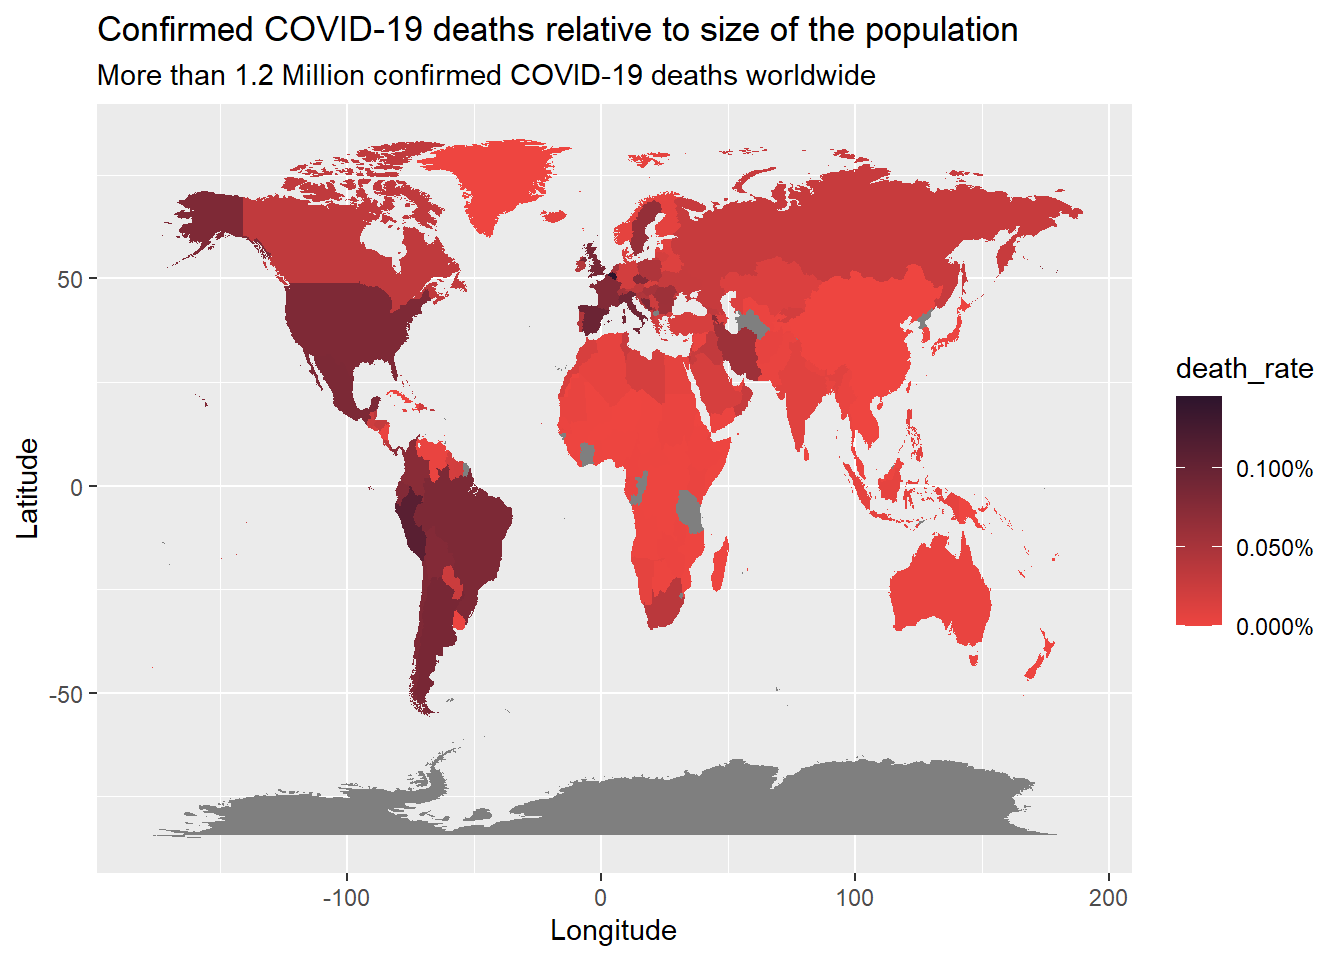
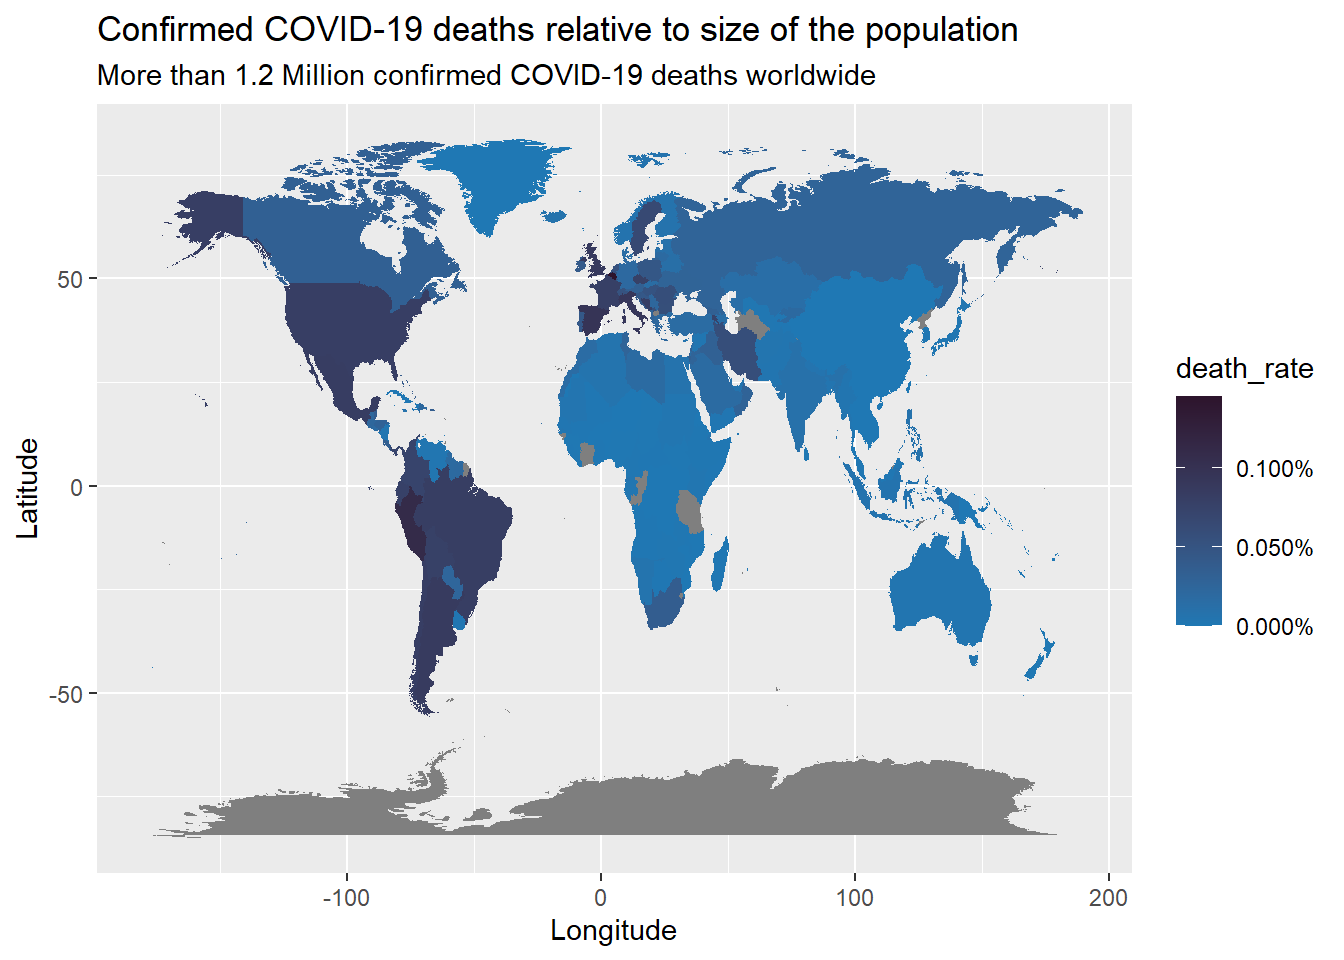
Final Push

Changed region(s): [[0.4062, 0.1562, 0.8125, 0.7188], [0.125, 0.125, 0.4375, 0.75], [0.875, 0.4375, 0.9062, 0.6562]]

diff --git a/docs/journal.html b/docs/journal.html
@@ -881,7 +881,7 @@ plot_data&lt;-merge(x = world, y = covid_data_deathrate_tbl,
 
 ggplot(plot_data, aes(fill = death_rate)) +
   geom_map(aes(map_id = region), map = world)+
-  scale_fill_gradient(low = &quot;#ee4540&quot;, high = &quot;#2d142c&quot;, labels = scales::percent)+
+  scale_fill_gradient(low = &quot;#1f78b4&quot;, high = &quot;#2d142c&quot;, labels = scales::percent)+
   expand_limits(x = plot_data$long, y = plot_data$lat)+
   labs(
     title = &quot;Confirmed COVID-19 deaths relative to size of the population&quot;,
